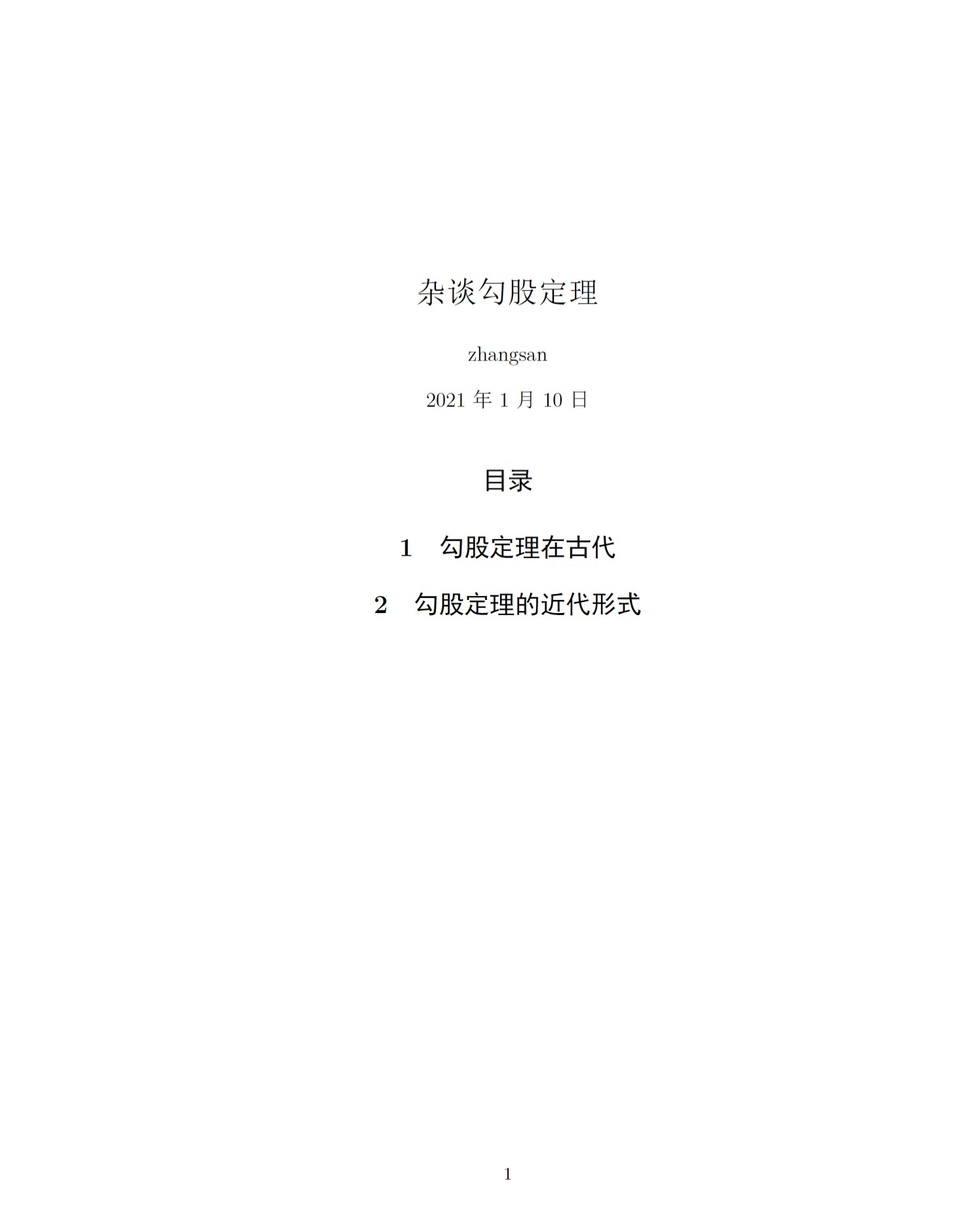
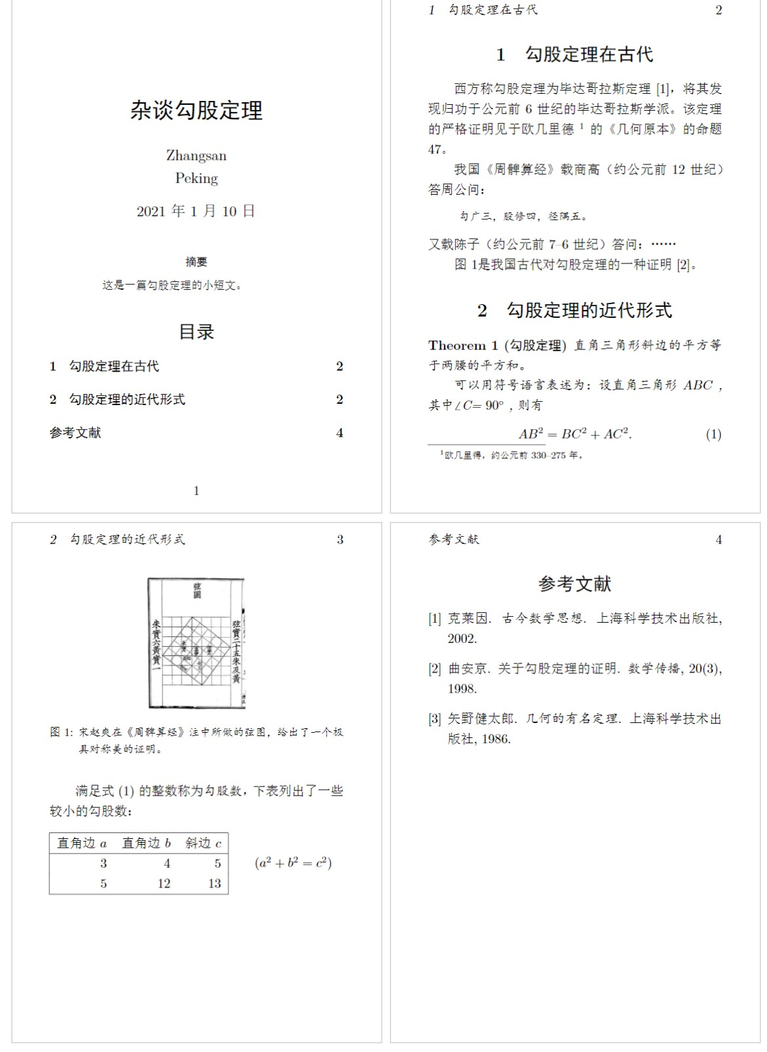
Site updated: 2021-01-11 00:01:17

diff --git a/2021/01/10/Latex study1/index.html b/2021/01/10/Latex study1/index.html
@@ -88,14 +88,15 @@
 <meta property="og:site_name" content="Mcphist の Blog">
 <meta property="og:description" content="对Latex的学习主要参考了刘海洋的《Latex入门》，下面将用勾股定理的pdf进行实操。 使用的软件是Visual Studio Code,通过LaTeX Workshop 插件来实现Latex。">
 <meta property="og:locale" content="zh_CN">
+<meta property="og:image" content="https://neverlandsx.github.io/2021/01/10/Latex%20study1/%E7%BC%96%E8%AF%91.jpg">
 <meta property="og:image" content="https://neverlandsx.github.io/2021/01/10/Latex%20study1/%E6%95%88%E6%9E%9C%E5%9B%BE.jpg">
 <meta property="article:published_time" content="2021-01-09T16:00:00.000Z">
-<meta property="article:modified_time" content="2021-01-10T14:05:19.509Z">
+<meta property="article:modified_time" content="2021-01-10T16:01:02.486Z">
 <meta property="article:author" content="Mcphist">
 <meta property="article:tag" content="study">
 <meta property="article:tag" content="latex">
 <meta name="twitter:card" content="summary">
-<meta name="twitter:image" content="https://neverlandsx.github.io/2021/01/10/Latex%20study1/%E6%95%88%E6%9E%9C%E5%9B%BE.jpg">
+<meta name="twitter:image" content="https://neverlandsx.github.io/2021/01/10/Latex%20study1/%E7%BC%96%E8%AF%91.jpg">
 
 
 
@@ -361,7 +362,7 @@
                   <span class="post-meta-item-text">Words count in article&#58;</span>
                 
                 <span title="Words count in article">
-                  986
+                  1.2k
                 </span>
               
 
@@ -390,7 +391,11 @@
 使用的软件是Visual Studio Code,通过LaTeX Workshop 插件来实现Latex。</code></pre>
 <a id="more"></a>
 
-<figure class="highlight livescript"><table><tr><td class="gutter"><pre><span class="line">1</span><br><span class="line">2</span><br><span class="line">3</span><br><span class="line">4</span><br><span class="line">5</span><br><span class="line">6</span><br><span class="line">7</span><br><span class="line">8</span><br><span class="line">9</span><br><span class="line">10</span><br><span class="line">11</span><br><span class="line">12</span><br><span class="line">13</span><br><span class="line">14</span><br><span class="line">15</span><br><span class="line">16</span><br><span class="line">17</span><br><span class="line">18</span><br><span class="line">19</span><br><span class="line">20</span><br><span class="line">21</span><br><span class="line">22</span><br><span class="line">23</span><br><span class="line">24</span><br><span class="line">25</span><br><span class="line">26</span><br><span class="line">27</span><br><span class="line">28</span><br><span class="line">29</span><br><span class="line">30</span><br><span class="line">31</span><br><span class="line">32</span><br><span class="line">33</span><br><span class="line">34</span><br><span class="line">35</span><br><span class="line">36</span><br><span class="line">37</span><br><span class="line">38</span><br><span class="line">39</span><br><span class="line">40</span><br><span class="line">41</span><br><span class="line">42</span><br><span class="line">43</span><br><span class="line">44</span><br><span class="line">45</span><br><span class="line">46</span><br><span class="line">47</span><br><span class="line">48</span><br><span class="line">49</span><br><span class="line">50</span><br><span class="line">51</span><br><span class="line">52</span><br><span class="line">53</span><br><span class="line">54</span><br><span class="line">55</span><br><span class="line">56</span><br><span class="line">57</span><br><span class="line">58</span><br><span class="line">59</span><br><span class="line">60</span><br><span class="line">61</span><br><span class="line">62</span><br><span class="line">63</span><br><span class="line">64</span><br><span class="line">65</span><br><span class="line">66</span><br><span class="line">67</span><br><span class="line">68</span><br><span class="line">69</span><br><span class="line">70</span><br><span class="line">71</span><br><span class="line">72</span><br><span class="line">73</span><br><span class="line">74</span><br><span class="line">75</span><br><span class="line">76</span><br><span class="line">77</span><br><span class="line">78</span><br><span class="line">79</span><br><span class="line">80</span><br></pre></td><td class="code"><pre><span class="line">%勾股定理</span><br><span class="line"><span class="string">\documentclass[UTF8]&#123;ctexart&#125;</span>                %当命令的参数为可选参数时为[];否者为&#123;&#125;</span><br><span class="line"><span class="string">\newtheorem&#123;theorem&#125;&#123;Theorem&#125;</span>                %提供theorem所需环境</span><br><span class="line"><span class="string">\usepackage&#123;graphicx&#125;</span>                       %提供插入图片所需的宏包</span><br><span class="line"><span class="string">\usepackage&#123;float&#125;</span>                          %提供不浮动table（表格）</span><br><span class="line">%------------------------------------</span><br><span class="line"><span class="string">\title&#123;杂谈勾股定理&#125;</span></span><br><span class="line"><span class="string">\author&#123;Zhangsan\\Peking&#125;</span></span><br><span class="line"><span class="string">\date&#123;\today&#125;</span>                                % <span class="string">\today</span> 输出的是电脑的当日的时期</span><br><span class="line">%以上信息仅是对文章信息提前申明，得通过<span class="string">\maketitle输出，maketitle的输出格式是固定的</span></span><br><span class="line">%  <span class="regexp">/是转义字符；/</span>/为换行</span><br><span class="line"></span><br><span class="line"><span class="string">\bibliographystyle&#123;plain&#125;</span>                     % <span class="string">\bibliographystyle</span> 声明参考文献格式</span><br><span class="line">% <span class="string">\begin</span> 以上部分都称为导言区（premble）</span><br><span class="line"></span><br><span class="line">%<span class="string">\begin</span> 与 <span class="string">\end</span> 之间为pdf的输出内容</span><br><span class="line"><span class="string">\begin&#123;document&#125;</span></span><br><span class="line"></span><br><span class="line"><span class="string">\maketitle</span>                                     %输出文章信息(前文定义的)</span><br><span class="line"></span><br><span class="line"><span class="string">\begin&#123;abstract&#125;</span></span><br><span class="line">    这是一篇勾股定理的小短文。                   %摘要在abstract环境中生成</span><br><span class="line"><span class="string">\end&#123;abstract&#125;</span></span><br><span class="line"></span><br><span class="line"><span class="string">\tableofcontents</span>                               %输出目录</span><br><span class="line"></span><br><span class="line"><span class="string">\section&#123;勾股定理在古代&#125;</span>                           %开始新一节,自动排序</span><br><span class="line"></span><br><span class="line">西方称勾股定理为毕达哥拉斯定理，将其发  现归功于公元前 <span class="number">6</span> 世纪的毕达哥拉斯学派。该定理的严格证明见于欧几里德</span><br><span class="line"><span class="string">\footnote&#123;欧几里得，约公元前</span> <span class="number">330</span>--<span class="number">275</span> 年。&#125;的《几何原本》的命题 <span class="number">47</span>。   </span><br><span class="line">%数字前后加空格，汉字前后的空格等于没有；段前无需缩进，自动缩进；中间空出一行，代表分段。</span><br><span class="line">%<span class="string">&#x27; \footnote&#123;&#125; &#x27;</span>为脚注命令，花括号内为脚注内容</span><br><span class="line"></span><br><span class="line">我国《周髀算经》载商高（约公元前 <span class="number">12</span> 世纪）答周公问：</span><br><span class="line"><span class="string">\begin&#123;quote&#125;</span>                                     %使用quote环境进行引用以突出引用内容</span><br><span class="line">    <span class="string">\zihao&#123;-5&#125;\kaishu</span> 勾广三，股修四，径隅五。      % <span class="string">&#x27;\zihao&#123;-5&#125;&#x27;</span> 为小<span class="number">5</span>号;<span class="string">&#x27;\kaishu&#x27;</span> 为楷书</span><br><span class="line"><span class="string">\end&#123;quote&#125;</span></span><br><span class="line">又载陈子（约公元前 <span class="number">7</span>--<span class="number">6</span> 世纪）答问：……              %<span class="string">&#x27;--&#x27;</span>表示一个宽度与n相当的短划线</span><br><span class="line"></span><br><span class="line">图一是我国古代对勾股定理的一种证明：</span><br><span class="line"><span class="string">\begin&#123;figure&#125;[ht]</span>                                      %figure是指图片可以自适应浮动的环境吗，ht表示可以出现页面顶部和底部</span><br><span class="line">    <span class="string">\centering</span>                                          %<span class="string">&#x27;\centering&#x27;</span> 表示后面内容居中</span><br><span class="line">    <span class="string">\includegraphics[width=3cm]&#123;xian.jpeg&#125;</span></span><br><span class="line">    <span class="string">\caption&#123;宋赵爽在《周髀算经》注中所做的弦图，给出了一个极具对称美的证明。&#125;</span>          %<span class="string">&#x27;\caption&#123;&#125;&#x27;</span> 能给出标题，并自动编号</span><br><span class="line">    <span class="string">\label&#123;fig:xiantu&#125;</span>                                  %定义一个标签，以便方便引用</span><br><span class="line"><span class="string">\end&#123;figure&#125;</span></span><br><span class="line"></span><br><span class="line"></span><br><span class="line"><span class="string">\section&#123;勾股定理的近代形式&#125;</span></span><br><span class="line"></span><br><span class="line"><span class="string">\begin&#123;theorem&#125;[勾股定理]</span>                        %使用theorem环境来写定理</span><br><span class="line">    直角三角形斜边的平方等于两腰的平方和。</span><br><span class="line"></span><br><span class="line">    可以用符号语言表述为：设直角三角形$ABC$ ,其中<span class="string">\angle</span> C= $<span class="number">90</span>^<span class="string">\circ$</span> ,则有         % $内容$ 表示里面的内容用公式格式，被称为行内公式</span><br><span class="line"></span><br><span class="line">    <span class="string">\begin&#123;equation&#125;</span></span><br><span class="line">        AB^<span class="number">2</span>=BC^<span class="number">2</span>+AC^<span class="number">2.</span>                                                         %采用了equation 环境，此种为列表公式</span><br><span class="line">    <span class="string">\end&#123;equation&#125;</span></span><br><span class="line"></span><br><span class="line"><span class="string">\end&#123;theorem&#125;</span></span><br><span class="line"></span><br><span class="line">满足式（<span class="number">1</span>）的整数称为<span class="string">\emph&#123;勾股数&#125;，下表列出了一些较小的勾股数：</span>                           %<span class="string">&#x27;\emph&#123;&#125;&#x27;</span> 表强调  </span><br><span class="line"><span class="string">\begin&#123;table&#125;[H]</span>                                        %table提供的是浮动表格环境，但[H]使其固定</span><br><span class="line"><span class="string">\begin&#123;tabular&#125;&#123;|rrr|&#125;</span>                                  %tabular提供制表环境，<span class="string">&#x27;|rrr|&#x27;</span>示右对齐,有三列，表格两侧有两条竖线</span><br><span class="line">    <span class="string">\hline</span></span><br><span class="line">    直角边 $a$ &amp; 直角边 $b$ &amp; 斜边 $c$ <span class="string">\\</span>                   %<span class="string">&#x27;\hline&#x27;</span>表示画出一条横线；<span class="string">\\表示换行；列之间用&amp;隔开</span></span><br><span class="line">    <span class="string">\hline</span></span><br><span class="line">            <span class="number">3</span> &amp; <span class="number">4</span> &amp; <span class="number">5</span> <span class="string">\\</span></span><br><span class="line">            <span class="number">5</span> &amp; <span class="number">12</span> &amp; <span class="number">13</span> <span class="string">\\</span></span><br><span class="line">    <span class="string">\hline</span></span><br><span class="line"><span class="string">\end&#123;tabular&#125;%</span>                                          %<span class="string">&#x27;%&#x27;</span>取消换行</span><br><span class="line"><span class="string">\qquad</span>                                                  %产生两个M宽度的间隔</span><br><span class="line">($a^<span class="number">2</span> + b^<span class="number">2</span> = c^<span class="number">2</span>$)</span><br><span class="line"><span class="string">\end&#123;table&#125;</span></span><br><span class="line"></span><br><span class="line"><span class="string">\bibliographystyle&#123;math&#125;</span>                        %从文献数据库math中获取文献信息，并输出</span><br><span class="line"></span><br><span class="line"></span><br><span class="line"><span class="string">\end&#123;document&#125;</span></span><br><span class="line"></span><br></pre></td></tr></table></figure>
+<figure class="highlight livescript"><table><tr><td class="gutter"><pre><span class="line">1</span><br><span class="line">2</span><br><span class="line">3</span><br><span class="line">4</span><br><span class="line">5</span><br><span class="line">6</span><br><span class="line">7</span><br><span class="line">8</span><br><span class="line">9</span><br><span class="line">10</span><br><span class="line">11</span><br><span class="line">12</span><br><span class="line">13</span><br><span class="line">14</span><br><span class="line">15</span><br><span class="line">16</span><br><span class="line">17</span><br><span class="line">18</span><br><span class="line">19</span><br><span class="line">20</span><br><span class="line">21</span><br><span class="line">22</span><br><span class="line">23</span><br><span class="line">24</span><br><span class="line">25</span><br><span class="line">26</span><br><span class="line">27</span><br><span class="line">28</span><br><span class="line">29</span><br><span class="line">30</span><br><span class="line">31</span><br><span class="line">32</span><br><span class="line">33</span><br><span class="line">34</span><br><span class="line">35</span><br><span class="line">36</span><br><span class="line">37</span><br><span class="line">38</span><br><span class="line">39</span><br><span class="line">40</span><br><span class="line">41</span><br><span class="line">42</span><br><span class="line">43</span><br><span class="line">44</span><br><span class="line">45</span><br><span class="line">46</span><br><span class="line">47</span><br><span class="line">48</span><br><span class="line">49</span><br><span class="line">50</span><br><span class="line">51</span><br><span class="line">52</span><br><span class="line">53</span><br><span class="line">54</span><br><span class="line">55</span><br><span class="line">56</span><br><span class="line">57</span><br><span class="line">58</span><br><span class="line">59</span><br><span class="line">60</span><br><span class="line">61</span><br><span class="line">62</span><br><span class="line">63</span><br><span class="line">64</span><br><span class="line">65</span><br><span class="line">66</span><br><span class="line">67</span><br><span class="line">68</span><br><span class="line">69</span><br><span class="line">70</span><br><span class="line">71</span><br><span class="line">72</span><br><span class="line">73</span><br><span class="line">74</span><br><span class="line">75</span><br><span class="line">76</span><br><span class="line">77</span><br><span class="line">78</span><br><span class="line">79</span><br><span class="line">80</span><br><span class="line">81</span><br><span class="line">82</span><br><span class="line">83</span><br><span class="line">84</span><br><span class="line">85</span><br><span class="line">86</span><br><span class="line">87</span><br><span class="line">88</span><br></pre></td><td class="code"><pre><span class="line"><span class="string">\documentclass[UTF8]&#123;ctexart&#125;</span>                %当命令的参数为可选参数时为[];否者为&#123;&#125;</span><br><span class="line"><span class="string">\newtheorem&#123;theorem&#125;&#123;Theorem&#125;</span>                %提供theorem所需环境</span><br><span class="line"><span class="string">\usepackage&#123;graphicx&#125;</span>                       %提供插入图片所需的宏包</span><br><span class="line"><span class="string">\usepackage&#123;float&#125;</span>                          %提供不浮动table（表格）</span><br><span class="line"><span class="string">\usepackage&#123;amsmath&#125;</span>                        %提供eqref所需环境</span><br><span class="line"><span class="string">\usepackage&#123;geometry&#125;</span>                       %该包用于设计页面尺寸</span><br><span class="line"><span class="string">\geometry&#123;a6paper,centering,scale=0.8&#125;</span>      %纸张A6大小，版心居中，长宽占页面的<span class="number">0.8</span></span><br><span class="line"><span class="string">\usepackage[format=hang,font=small,textfont=it]&#123;caption&#125;</span>        %标题悬挂对齐（即编号向左突出），整体用小字号，标题文本用斜体（英文）/楷书（汉字）</span><br><span class="line"><span class="string">\usepackage[nottoc]&#123;tocbibind&#125;</span>              %在目录中加入包括目录，参考文献的所有标题，nottoc取消目录本身</span><br><span class="line"><span class="string">\newcommand\degree&#123;^\circ&#125;</span>                %将命令^<span class="string">\circle用简单的degree代替</span></span><br><span class="line">%------------------------------------</span><br><span class="line"><span class="string">\title&#123;</span> <span class="string">\heiti</span> 杂谈勾股定理&#125;</span><br><span class="line"><span class="string">\author&#123;</span> <span class="string">\kaishu</span> Zhangsan<span class="string">\\Peking&#125;</span></span><br><span class="line"><span class="string">\date&#123;\today&#125;</span>                                % <span class="string">\today</span> 输出的是电脑的当日的时期</span><br><span class="line">%以上信息仅是对文章信息提前申明，得通过<span class="string">\maketitle输出，maketitle的输出格式是固定的</span></span><br><span class="line">%  <span class="regexp">/是转义字符；/</span>/为换行</span><br><span class="line"></span><br><span class="line"><span class="string">\bibliographystyle&#123;plain&#125;</span>                     % <span class="string">\bibliographystyle</span> 声明参考文献格式</span><br><span class="line">% <span class="string">\begin</span> 以上部分都称为导言区（premble）</span><br><span class="line"></span><br><span class="line">%<span class="string">\begin</span> 与 <span class="string">\end</span> 之间为pdf的输出内容</span><br><span class="line"><span class="string">\begin&#123;document&#125;</span></span><br><span class="line"></span><br><span class="line"><span class="string">\maketitle</span>                                     %输出文章信息(前文定义的)</span><br><span class="line"></span><br><span class="line"><span class="string">\begin&#123;abstract&#125;</span></span><br><span class="line">    这是一篇勾股定理的小短文。                   %摘要在abstract环境中生成</span><br><span class="line"><span class="string">\end&#123;abstract&#125;</span></span><br><span class="line"></span><br><span class="line"><span class="string">\tableofcontents</span>                               %输出目录</span><br><span class="line"></span><br><span class="line"><span class="string">\section&#123;勾股定理在古代&#125;</span>                           %开始新一节,自动排序</span><br><span class="line"></span><br><span class="line">西方称勾股定理为毕达哥拉斯定理 <span class="string">\cite&#123;Kline&#125;，将其发</span>  现归功于公元前 <span class="number">6</span> 世纪的毕达哥拉斯学派。该定理的严格证明见于欧几里德</span><br><span class="line"><span class="string">\footnote&#123;欧几里得，约公元前</span> <span class="number">330</span>--<span class="number">275</span> 年。&#125; 的《几何原本》的命题 <span class="number">47</span>。   </span><br><span class="line">%数字前后加空格，汉字前后的空格等于没有；段前无需缩进，自动缩进；中间空出一行，代表分段。</span><br><span class="line">%<span class="string">&#x27; \footnote&#123;&#125; &#x27;</span>为脚注命令，花括号内为脚注内容</span><br><span class="line"></span><br><span class="line">我国《周髀算经》载商高（约公元前 <span class="number">12</span> 世纪）答周公问：</span><br><span class="line"></span><br><span class="line"></span><br><span class="line"><span class="string">\begin&#123;quote&#125;</span>                                     %使用quote环境进行引用以突出引用内容</span><br><span class="line">    <span class="string">\zihao&#123;-5&#125;\kaishu</span> 勾广三，股修四，径隅五。      % <span class="string">&#x27;\zihao&#123;-5&#125;&#x27;</span> 为小<span class="number">5</span>号;<span class="string">&#x27;\kaishu&#x27;</span> 为楷书</span><br><span class="line"><span class="string">\end&#123;quote&#125;</span></span><br><span class="line">又载陈子（约公元前 <span class="number">7</span>--<span class="number">6</span> 世纪）答问：……              %<span class="string">&#x27;--&#x27;</span>表示一个宽度与n相当的短划线</span><br><span class="line"></span><br><span class="line">图<span class="string">\ref&#123;fig:xiantu&#125;是我国古代对勾股定理的一种证明</span> <span class="string">\cite&#123;quanjing&#125;。</span>          %通过<span class="string">\ref&#123;&#125;自动显示图的序号</span></span><br><span class="line"><span class="string">\begin&#123;figure&#125;[ht]</span>                                      %figure是指图片可以自适应浮动的环境吗，ht表示可以出现页面顶部和底部</span><br><span class="line">    <span class="string">\centering</span>                                          %<span class="string">&#x27;\centering&#x27;</span> 表示后面内容居中</span><br><span class="line">    <span class="string">\includegraphics[width=3cm]&#123;xian.jpeg&#125;</span></span><br><span class="line">    <span class="string">\caption&#123;宋赵爽在《周髀算经》注中所做的弦图，给出了一个极具对称美的证明。&#125;</span>          %<span class="string">&#x27;\caption&#123;&#125;&#x27;</span> 能给出标题，并自动编号</span><br><span class="line">    <span class="string">\label&#123;fig:xiantu&#125;</span>                                  %定义一个标签，以便方便引用</span><br><span class="line"><span class="string">\end&#123;figure&#125;</span></span><br><span class="line"></span><br><span class="line"></span><br><span class="line"><span class="string">\section&#123;勾股定理的近代形式&#125;</span></span><br><span class="line"></span><br><span class="line"><span class="string">\begin&#123;theorem&#125;[勾股定理]</span>                        %使用theorem环境来写定理</span><br><span class="line">    直角三角形斜边的平方等于两腰的平方和。</span><br><span class="line"></span><br><span class="line">    可以用符号语言表述为：设直角三角形$ABC$ ,其中<span class="string">\angle</span> C= $<span class="number">90</span><span class="string">\degree$</span> ,则有         % $内容$ 表示里面的内容用公式格式，被称为行内公式</span><br><span class="line">    <span class="string">\begin&#123;equation&#125;\label&#123;eq:gougu&#125;</span>                                            %用label定义公式标签方便提及公式</span><br><span class="line">        AB^<span class="number">2</span>=BC^<span class="number">2</span>+AC^<span class="number">2.</span>                                                         %采用了equation 环境，此种为列表公式</span><br><span class="line">    <span class="string">\end&#123;equation&#125;</span></span><br><span class="line"></span><br><span class="line"><span class="string">\end&#123;theorem&#125;</span></span><br><span class="line"></span><br><span class="line">满足式 <span class="string">\eqref&#123;eq:gougu&#125;</span> 的整数称为<span class="string">\emph&#123;勾股数&#125;，下表列出了一些较小的勾股数：</span>                   %<span class="string">&#x27;\emph&#123;&#125;&#x27;</span> 表强调，通过<span class="string">\eqref&#123;&#125;自动显示公式序号</span></span><br><span class="line"><span class="string">\begin&#123;table&#125;[H]</span>                                        %table提供的是浮动表格环境，但[H]使其固定</span><br><span class="line"><span class="string">\begin&#123;tabular&#125;&#123;|rrr|&#125;</span>                                  %tabular提供制表环境，<span class="string">&#x27;|rrr|&#x27;</span>示右对齐,有三列，表格两侧有两条竖线</span><br><span class="line">    <span class="string">\hline</span></span><br><span class="line">    直角边 $a$ &amp; 直角边 $b$ &amp; 斜边 $c$ <span class="string">\\</span>                   %<span class="string">&#x27;\hline&#x27;</span>表示画出一条横线；<span class="string">\\表示换行；列之间用&amp;隔开</span></span><br><span class="line">    <span class="string">\hline</span></span><br><span class="line">            <span class="number">3</span> &amp; <span class="number">4</span> &amp; <span class="number">5</span> <span class="string">\\</span></span><br><span class="line">            <span class="number">5</span> &amp; <span class="number">12</span> &amp; <span class="number">13</span> <span class="string">\\</span></span><br><span class="line">    <span class="string">\hline</span></span><br><span class="line"><span class="string">\end&#123;tabular&#125;%</span>                                          %<span class="string">&#x27;%&#x27;</span>取消换行</span><br><span class="line"><span class="string">\qquad</span>                                                  %产生两个M宽度的间隔</span><br><span class="line">($a^<span class="number">2</span> + b^<span class="number">2</span> = c^<span class="number">2</span>$)</span><br><span class="line"><span class="string">\end&#123;table&#125;</span></span><br><span class="line"></span><br><span class="line"><span class="string">\nocite&#123;Shiye&#125;</span></span><br><span class="line"><span class="string">\bibliography&#123;math&#125;</span>                                       %从文献数据库math(该数据库通过JabRef软件得到)中获取文献信息，输出的.bib文件放在相同目录中</span><br><span class="line"></span><br><span class="line"></span><br><span class="line"><span class="string">\end&#123;document&#125;</span></span><br><span class="line"></span><br><span class="line"></span><br></pre></td></tr></table></figure>
+<p>编译需选择下图中圈出的选项：</p>
+<img src="/2021/01/10/Latex%20study1/%E7%BC%96%E8%AF%91.jpg" class title="编译">
+
+<p><strong>这就是完成后的效果！</strong></p>
 <img src="/2021/01/10/Latex%20study1/%E6%95%88%E6%9E%9C%E5%9B%BE.jpg" class title="效果图">
       
     </div>
@@ -605,7 +610,7 @@
     
       <span class="post-meta-item-text">Site words total count&#58;</span>
     
-    <span title="Site words total count">986</span>
+    <span title="Site words total count">1.2k</span>
   
 </div>
 

diff --git a/index.html b/index.html
@@ -358,7 +358,7 @@
                   <span class="post-meta-item-text">Words count in article&#58;</span>
                 
                 <span title="Words count in article">
-                  986
+                  1.2k
                 </span>
               
 
@@ -587,7 +587,7 @@
     
       <span class="post-meta-item-text">Site words total count&#58;</span>
     
-    <span title="Site words total count">986</span>
+    <span title="Site words total count">1.2k</span>
   
 </div>
 

diff --git a/archives/2021/01/index.html b/archives/2021/01/index.html
@@ -479,7 +479,7 @@
     
       <span class="post-meta-item-text">Site words total count&#58;</span>
     
-    <span title="Site words total count">986</span>
+    <span title="Site words total count">1.2k</span>
   
 </div>
 

diff --git a/archives/2021/index.html b/archives/2021/index.html
@@ -479,7 +479,7 @@
     
       <span class="post-meta-item-text">Site words total count&#58;</span>
     
-    <span title="Site words total count">986</span>
+    <span title="Site words total count">1.2k</span>
   
 </div>
 

diff --git a/archives/index.html b/archives/index.html
@@ -479,7 +479,7 @@
     
       <span class="post-meta-item-text">Site words total count&#58;</span>
     
-    <span title="Site words total count">986</span>
+    <span title="Site words total count">1.2k</span>
   
 </div>
 

diff --git a/categories/latex/index.html b/categories/latex/index.html
@@ -460,7 +460,7 @@
     
       <span class="post-meta-item-text">Site words total count&#58;</span>
     
-    <span title="Site words total count">986</span>
+    <span title="Site words total count">1.2k</span>
   
 </div>
 

diff --git a/tags/latex/index.html b/tags/latex/index.html
@@ -459,7 +459,7 @@
     
       <span class="post-meta-item-text">Site words total count&#58;</span>
     
-    <span title="Site words total count">986</span>
+    <span title="Site words total count">1.2k</span>
   
 </div>
 

diff --git a/tags/study/index.html b/tags/study/index.html
@@ -459,7 +459,7 @@
     
       <span class="post-meta-item-text">Site words total count&#58;</span>
     
-    <span title="Site words total count">986</span>
+    <span title="Site words total count">1.2k</span>
   
 </div>
 
